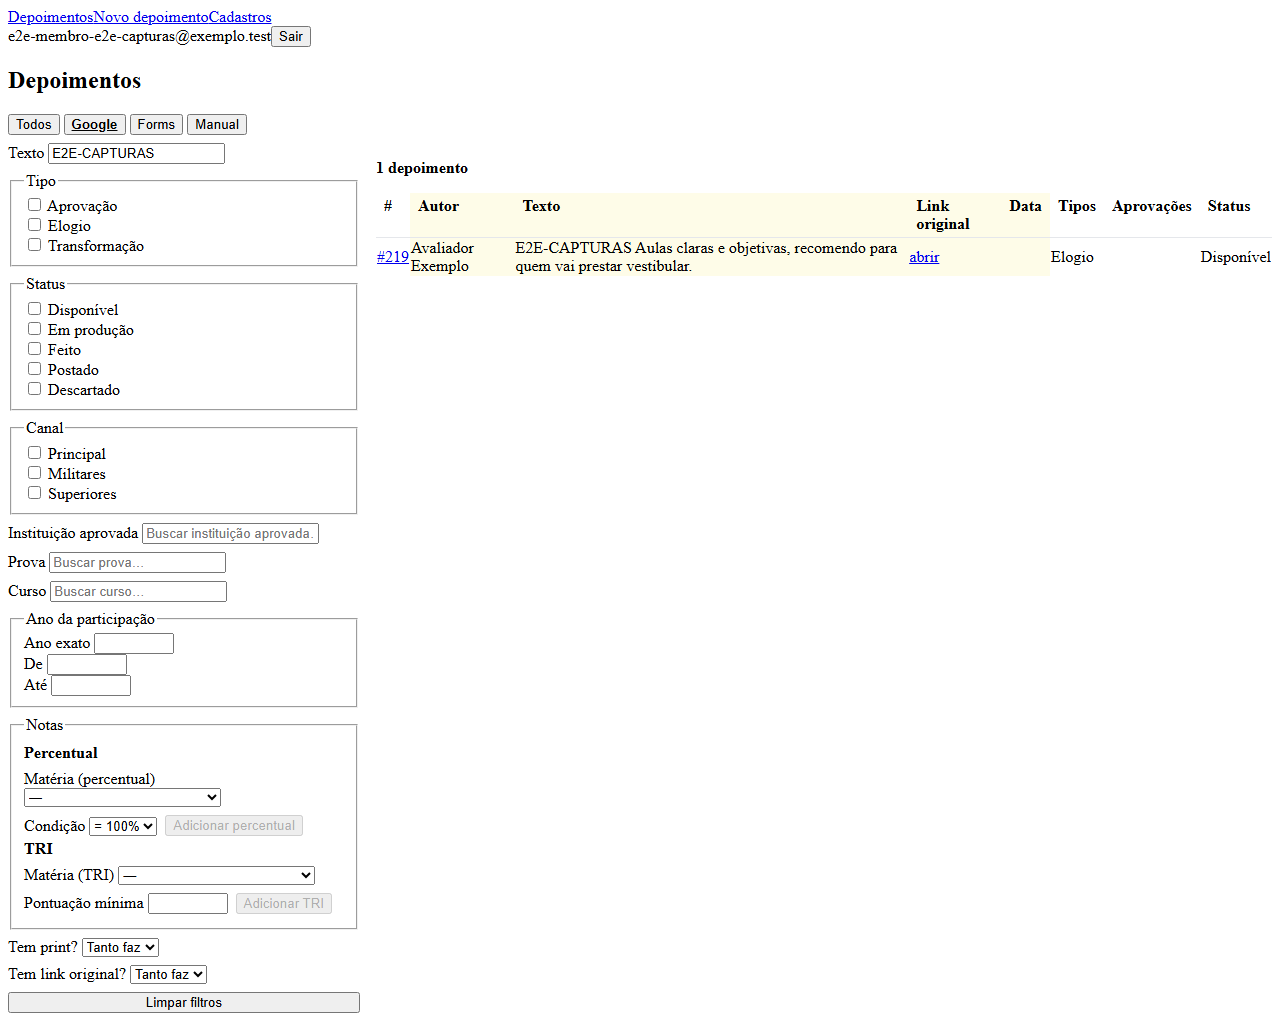
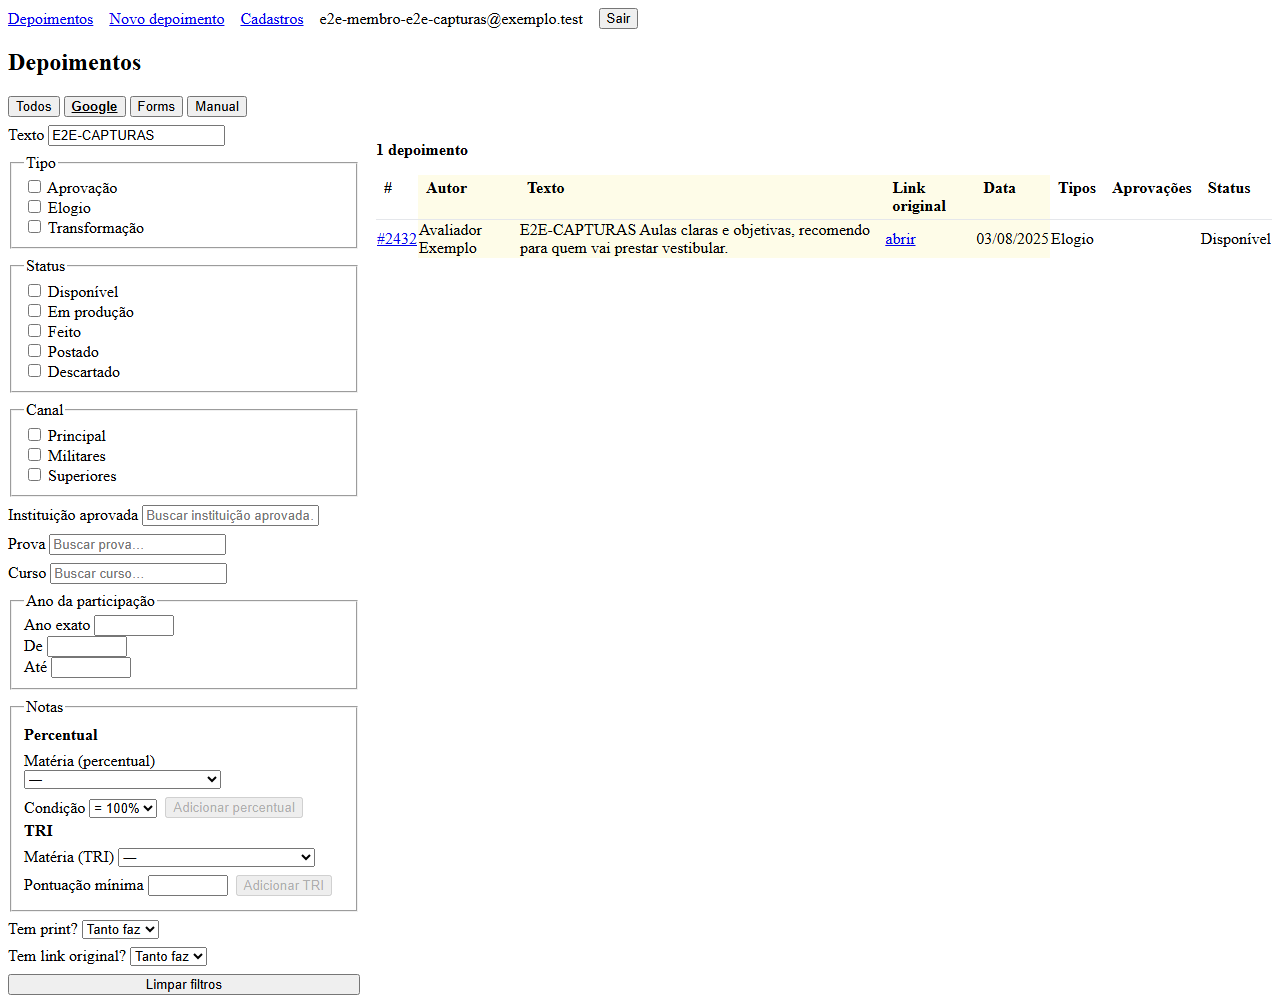
test: capturas com data do depoimento e cabecalho espacado, regeradas

Changed region(s): [[0.0, 0.0, 0.5, 0.989], [0.4062, 0.1854, 1.0, 0.2782]]

diff --git a/e2e/capturas.spec.js b/e2e/capturas.spec.js
@@ -37,7 +37,7 @@ test('capturas da lista, do painel e da ficha', async ({ page, entrarComo }) => 
 
   const alvo = await criarDepoimento({
     texto: `${m} Gabaritei física no ENEM e passei no ITA. O canal mudou meu jeito de estudar.`,
-    fonte: 'MANUAL', autor: 'Aluna Exemplo', tipos: ['APROVACAO', 'TRANSFORMACAO'],
+    fonte: 'MANUAL', autor: 'Aluna Exemplo', data: '2025-11-20', tipos: ['APROVACAO', 'TRANSFORMACAO'],
     participacoes: [
       { prova: enem, ano: 2025, notas: [{ materia: fisica, valor: 100 }, { materia: matematica, valor: 780, escala: 'TRI' }] },
       { prova: vestibular, ano: 2025, resultados: [{ instituicao: ita }] },
@@ -45,12 +45,12 @@ test('capturas da lista, do painel e da ficha', async ({ page, entrarComo }) => 
   })
   await criarDepoimento({
     texto: `${m} Aulas claras e objetivas, recomendo para quem vai prestar vestibular.`,
-    fonte: 'GOOGLE_REVIEW', autor: 'Avaliador Exemplo', link: 'https://exemplo.test/avaliacao',
+    fonte: 'GOOGLE_REVIEW', autor: 'Avaliador Exemplo', data: '2025-08-03', link: 'https://exemplo.test/avaliacao',
     tipos: ['ELOGIO'],
   })
   await criarDepoimento({
     texto: `${m} Passei na UFMG estudando pelas aulas do canal.`,
-    fonte: 'GOOGLE_FORMS', autor: 'Aluno Formulário', contato: '@aluno.exemplo',
+    fonte: 'GOOGLE_FORMS', autor: 'Aluno Formulário', data: '2025-02-14', contato: '@aluno.exemplo',
     autorizacao: 'AUTORIZADO', tipos: ['APROVACAO'],
     participacoes: [{ prova: enem, ano: 2024, resultados: [{ instituicao: ufmg }] }],
   })
@@ -72,6 +72,7 @@ test('capturas da lista, do painel e da ficha', async ({ page, entrarComo }) => 
   await adicionarTri(page, `${m} Matemática`, 700)
   await escolherCadastro(page, 'Instituição aprovada', `${m} ITA`)
   await expect(contagem(page)).toHaveText('1 depoimento')
+  await expect(page.locator('td[data-coluna="data"]')).toHaveText('20/11/2025')
   await capturar(page, 'painel-com-condicoes.png')
 
   await page.goto(`#/ficha/${alvo}`)

diff --git a/e2e/ajuda/lista.js b/e2e/ajuda/lista.js
@@ -15,13 +15,13 @@ const id = async (sql, parametros) => Number((await consultar(sql, parametros))[
 //                   resultados: [{ instituicao, situacao }] }]
 export async function criarDepoimento({
   texto, fonte = 'MANUAL', link = null, autor = null, contato = null,
-  autorizacao = 'NAO_INFORMADO', tipos = [], participacoes = [],
+  autorizacao = 'NAO_INFORMADO', tipos = [], participacoes = [], data = null,
 }) {
   const depoimento = await id(
     `insert into depoimento (texto_completo, fonte, link_original, autor_bruto,
-       autor_contato_bruto, autorizacao_publicacao)
-     values ($1, $2, $3, $4, $5, $6) returning id`,
-    [texto, fonte, link, autor, contato, autorizacao])
+       autor_contato_bruto, autorizacao_publicacao, data_depoimento)
+     values ($1, $2, $3, $4, $5, $6, $7) returning id`,
+    [texto, fonte, link, autor, contato, autorizacao, data])
   for (const tipo of tipos) {
     await consultar('insert into depoimento_tipo (depoimento_id, tipo) values ($1, $2)', [depoimento, tipo])
   }
